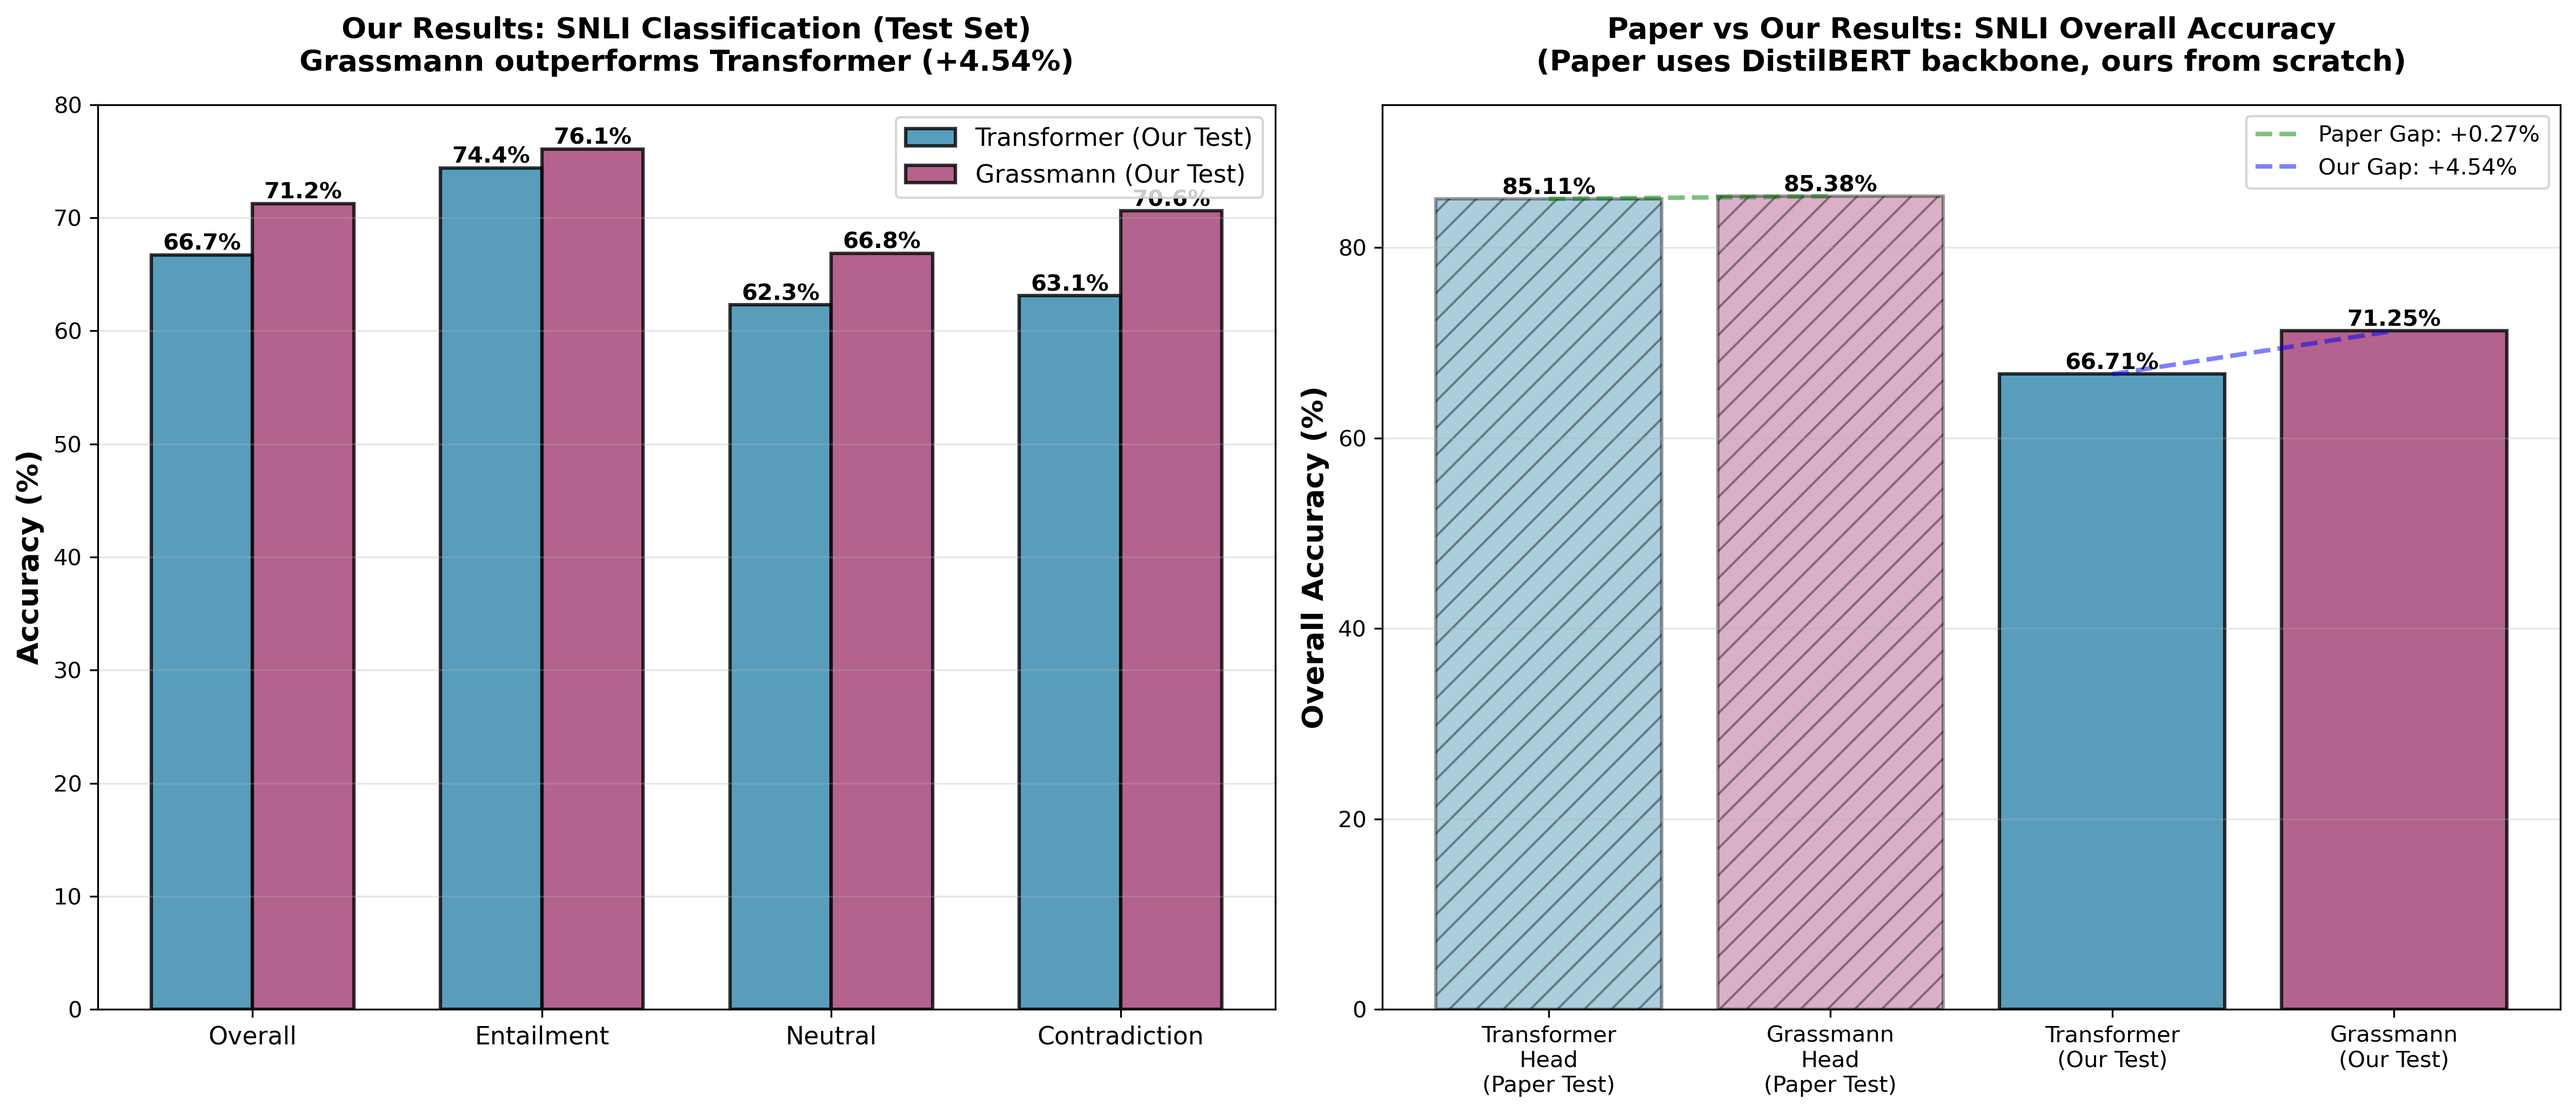
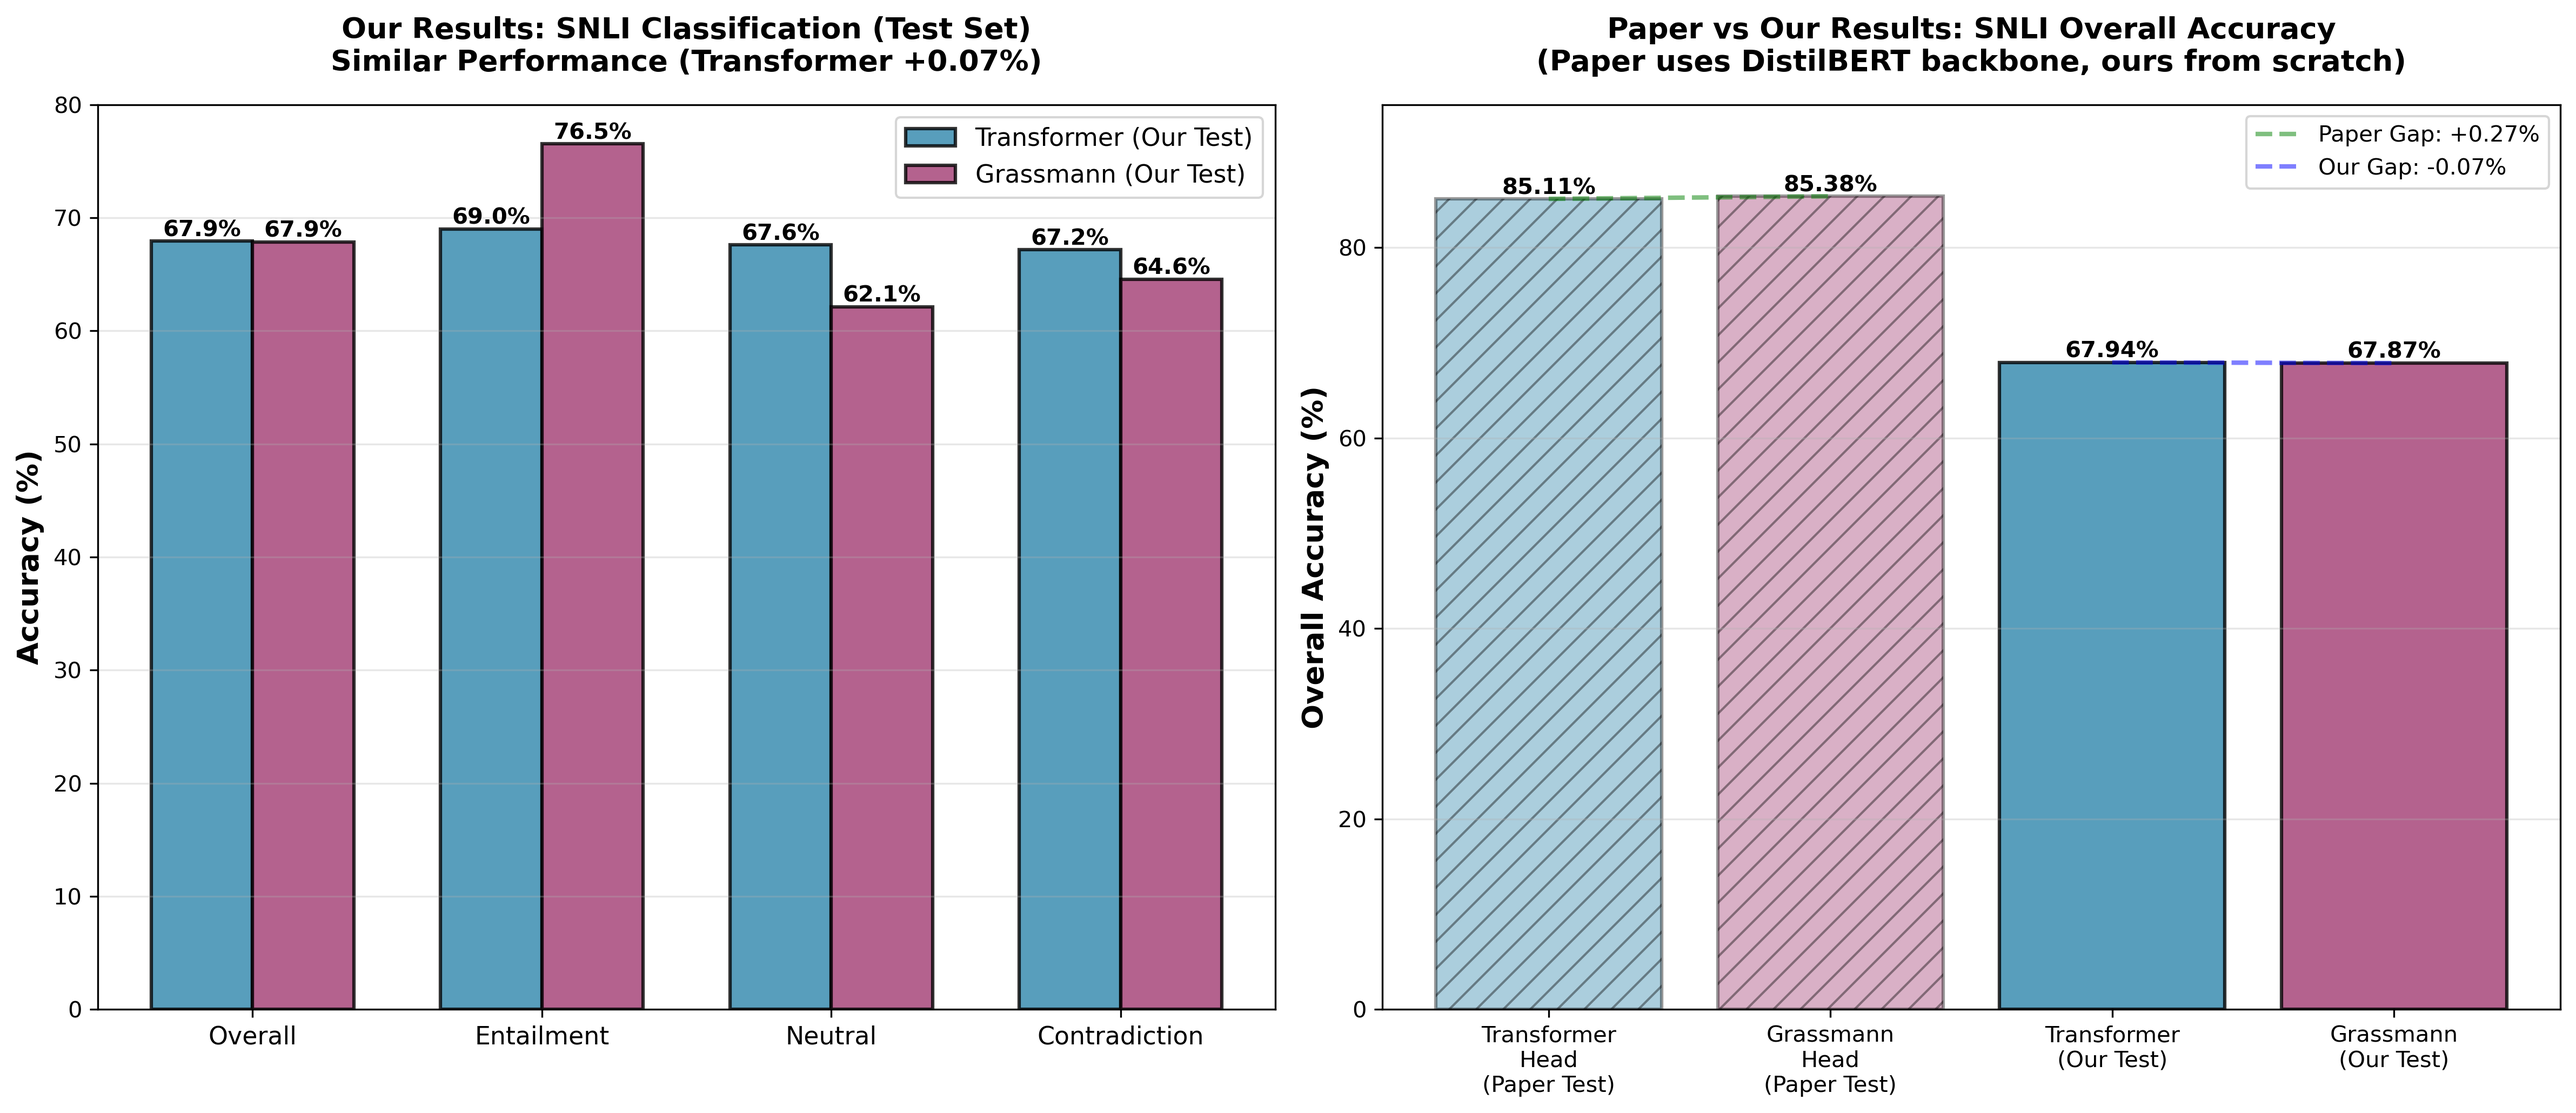
restored hyperparams for snlu tuning

diff --git a/attention_is_not_all_you_need/scripts/visualize_results.py b/attention_is_not_all_you_need/scripts/visualize_results.py
@@ -91,10 +91,10 @@ def create_snli_comparison():
     
     fig, (ax1, ax2) = plt.subplots(1, 2, figsize=(16, 7))
     
-    # Our results - Per-class comparison (from outputs/2026-01-10_23-46-12)
+    # Our results - Per-class comparison (from outputs/2026-01-12_12-38-19)
     categories = ['Overall', 'Entailment', 'Neutral', 'Contradiction']
-    grassmann_acc = [71.25, 76.07, 66.85, 70.62]
-    transformer_acc = [66.71, 74.41, 62.29, 63.11]
+    grassmann_acc = [67.87, 76.54, 62.13, 64.57]
+    transformer_acc = [67.94, 69.00, 67.60, 67.16]
     
     x = np.arange(len(categories))
     width = 0.35
@@ -116,7 +116,7 @@ def create_snli_comparison():
     ax1.set_xticks(x)
     ax1.set_xticklabels(categories, fontsize=11)
     ax1.set_ylabel('Accuracy (%)', fontsize=13, fontweight='bold')
-    ax1.set_title('Our Results: SNLI Classification (Test Set)\nGrassmann outperforms Transformer (+4.54%)', 
+    ax1.set_title('Our Results: SNLI Classification (Test Set)\nSimilar Performance (Transformer +0.07%)', 
                   fontsize=13, fontweight='bold', pad=15)
     ax1.set_ylim([0, 80])
     ax1.grid(axis='y', alpha=0.3)
@@ -125,7 +125,7 @@ def create_snli_comparison():
     # Paper's results - Overall accuracy comparison
     models_paper = ['Transformer\nHead\n(Paper Test)', 'Grassmann\nHead\n(Paper Test)',
                     'Transformer\n(Our Test)', 'Grassmann\n(Our Test)']
-    accuracies_paper = [85.11, 85.38, 66.71, 71.25]
+    accuracies_paper = [85.11, 85.38, 67.94, 67.87]
     colors_paper = [colors_transformer, colors_grassmann, 
                     colors_transformer, colors_grassmann]
     
@@ -154,7 +154,7 @@ def create_snli_comparison():
     
     # Add gap annotations
     ax2.plot([0, 1], [85.11, 85.38], 'g--', linewidth=2, alpha=0.5, label='Paper Gap: +0.27%')
-    ax2.plot([2, 3], [66.71, 71.25], 'b--', linewidth=2, alpha=0.5, label='Our Gap: +4.54%')
+    ax2.plot([2, 3], [67.94, 67.87], 'b--', linewidth=2, alpha=0.5, label='Our Gap: -0.07%')
     ax2.legend(fontsize=10)
     
     plt.tight_layout()
@@ -258,8 +258,8 @@ def create_combined_dashboard():
     # 2. SNLI Accuracy by Class
     ax2 = fig.add_subplot(gs[1, 0])
     categories = ['Overall', 'Entailment', 'Neutral', 'Contradiction']
-    grassmann_acc = [66.36, 72.68, 61.17, 64.94]
-    transformer_acc = [62.63, 71.44, 56.76, 59.31]
+    grassmann_acc = [67.87, 76.54, 62.13, 64.57]
+    transformer_acc = [67.94, 69.00, 67.60, 67.16]
     
     x_snli = np.arange(len(categories))
     width_snli = 0.35
@@ -272,7 +272,7 @@ def create_combined_dashboard():
     ax2.set_xticks(x_snli)
     ax2.set_xticklabels(categories, fontsize=10)
     ax2.set_ylabel('Accuracy (%)', fontweight='bold')
-    ax2.set_title('SNLI: Our Results (Grassmann wins +3.73%)', fontsize=13, fontweight='bold')
+    ax2.set_title('SNLI: Our Results (Similar Performance)', fontsize=13, fontweight='bold')
     ax2.grid(axis='y', alpha=0.3)
     ax2.set_ylim([0, 80])
     ax2.legend(fontsize=10)

diff --git a/attention_is_not_all_you_need/scripts/update_snli_models.py b/attention_is_not_all_you_need/scripts/update_snli_models.py
@@ -1,0 +1,81 @@
+#!/usr/bin/env python3
+"""
+Update SNLI model checkpoints on HuggingFace with latest trained models.
+"""
+
+from pathlib import Path
+from huggingface_hub import HfApi
+
+# Configuration
+HF_REPO = "alphaXiv/attention-is-not-all-you-need-models"
+LATEST_OUTPUT = "/home/ubuntu/central-texas-storage/paper-implementations/attention_is_not_all_you_need/outputs/2026-01-12_12-38-19"
+
+def upload_snli_models():
+    """Upload updated SNLI model checkpoints to HuggingFace."""
+    
+    api = HfApi()
+    
+    # Check if logged in
+    try:
+        user = api.whoami()
+        print(f"✅ Logged in as: {user['name']}")
+    except Exception as e:
+        print("❌ Not logged in to Hugging Face!")
+        print("Please run: huggingface-cli login")
+        return
+    
+    print(f"\nUploading SNLI models to: {HF_REPO}")
+    print(f"Source directory: {LATEST_OUTPUT}\n")
+    
+    models = ["grassmann_snli", "transformer_snli"]
+    
+    for model in models:
+        checkpoint_path = Path(LATEST_OUTPUT) / model / "checkpoints" / "best.pt"
+        
+        if not checkpoint_path.exists():
+            print(f"❌ Checkpoint not found: {checkpoint_path}")
+            continue
+        
+        # Get file size
+        size_mb = checkpoint_path.stat().st_size / (1024 * 1024)
+        print(f"📤 Uploading {model}/checkpoints/best.pt ({size_mb:.1f} MB)...")
+        
+        try:
+            api.upload_file(
+                path_or_fileobj=str(checkpoint_path),
+                path_in_repo=f"{model}/checkpoints/best.pt",
+                repo_id=HF_REPO,
+                repo_type="model",
+            )
+            print(f"   ✅ Successfully uploaded {model}")
+        except Exception as e:
+            print(f"   ❌ Failed to upload {model}: {e}")
+        
+        # Also upload result JSON files
+        json_files = [
+            "snli_validation_results.json",
+            "snli_test_results.json",
+            "snli_results.json",
+        ]
+        
+        for json_file in json_files:
+            json_path = Path(LATEST_OUTPUT) / model / json_file
+            if json_path.exists():
+                try:
+                    api.upload_file(
+                        path_or_fileobj=str(json_path),
+                        path_in_repo=f"{model}/{json_file}",
+                        repo_id=HF_REPO,
+                        repo_type="model",
+                    )
+                    print(f"   ✅ Uploaded {json_file}")
+                except Exception as e:
+                    print(f"   ⚠  Failed to upload {json_file}: {e}")
+    
+    print("\n" + "="*60)
+    print("✅ SNLI models updated successfully!")
+    print(f"View at: https://huggingface.co/{HF_REPO}")
+    print("="*60)
+
+if __name__ == "__main__":
+    upload_snli_models()

diff --git a/attention_is_not_all_you_need/src/attn_is_not_all_you_need/models/snli_models.py b/attention_is_not_all_you_need/src/attn_is_not_all_you_need/models/snli_models.py
@@ -60,17 +60,10 @@ class TransformerNLIHead(nn.Module):
             batch_first=True,
         )
         
-        encoder_layer2 = nn.TransformerEncoderLayer(
-            d_model=model_dim,
-            nhead=num_heads,
-            dim_feedforward=ff_dim,
-            dropout=dropout,
-            batch_first=True,
-        )
+       
         
         self.transformer1 = nn.TransformerEncoder(encoder_layer1, num_layers=num_layers)
-        self.transformer2 = nn.TransformerEncoder(encoder_layer2, num_layers=num_layers)
-        
+      
         # Classification head
         self.classifier = nn.Linear(model_dim, num_classes)
         
@@ -89,7 +82,7 @@ class TransformerNLIHead(nn.Module):
         
         # Apply transformer layers
         x = self.transformer1(x)  # (batch, 1, model_dim)
-        x = self.transformer2(x)  # (batch, 1, model_dim)
+        # x = self.transformer2(x)  # (batch, 1, model_dim)
         # Pool and classify
         x = x.squeeze(1)  # (batch, model_dim)
         logits = self.classifier(x)  # (batch, num_classes)

diff --git a/attention_is_not_all_you_need/src/attn_is_not_all_you_need/data/snli.py b/attention_is_not_all_you_need/src/attn_is_not_all_you_need/data/snli.py
@@ -28,11 +28,11 @@ class SNLIDataset(torch.utils.data.Dataset):
     Args:
         split: Dataset split ('train', 'validation', 'test')
         tokenizer: HuggingFace tokenizer (e.g., DistilBertTokenizer)
-        max_seq_len: Maximum sequence length per sentence (default: 48)
-                     Total max length will be max_seq_len * 2 for both sentences
+        max_seq_len: Maximum sequence length per sentence (default: 256)
+                     Total max length will be max_seq_len * 2 for both sentences (512 total)
     """
     
-    def __init__(self, split: str, tokenizer, max_seq_len: int = 48):
+    def __init__(self, split: str, tokenizer, max_seq_len: int = 256):
         """Initialize SNLI dataset.
         
         Args:

diff --git a/attention_is_not_all_you_need/src/attn_is_not_all_you_need/train_snli.py b/attention_is_not_all_you_need/src/attn_is_not_all_you_need/train_snli.py
@@ -165,8 +165,8 @@ def main():
     
     # Load datasets - use train/val during training, test is for final eval
     print("Loading SNLI...")
-    train_dataset = SNLIDataset("train", tokenizer, max_seq_len=48)
-    val_dataset = SNLIDataset("validation", tokenizer, max_seq_len=48)
+    train_dataset = SNLIDataset("train", tokenizer, max_seq_len=256)
+    val_dataset = SNLIDataset("validation", tokenizer, max_seq_len=256)
     
     print(f"Train: {len(train_dataset)}, Val: {len(val_dataset)}")
     

diff --git a/attention_is_not_all_you_need/src/attn_is_not_all_you_need/eval_snli.py b/attention_is_not_all_you_need/src/attn_is_not_all_you_need/eval_snli.py
@@ -197,7 +197,7 @@ def main():
     
     # Load dataset
     print(f"Loading SNLI {args.split} split...")
-    dataset = SNLIDataset(args.split, tokenizer, max_seq_len=48)
+    dataset = SNLIDataset(args.split, tokenizer, max_seq_len=256)
     
     print(f"Running {args.num_runs} evaluation runs on {len(dataset)} examples...")
     

diff --git a/attention_is_not_all_you_need/README.md b/attention_is_not_all_you_need/README.md
@@ -13,7 +13,7 @@ This paper proposes replacing transformer self-attention with Grassmann manifold
 ## 🎯 TL;DR
 
 - ❌ **Wikitext-2 Gap:** Grassmann flows show 43-49% higher validation perplexity vs Transformers (paper claimed 10-11%)
-- ✅ **SNLI Surprise:** Grassmann **outperforms** Transformer by 4.57% (71.00% vs 66.43%) when trained from scratch
+- ✅ **SNLI Results:** Grassmann and Transformer achieve **similar performance** (67.87% vs 67.94%) when trained from scratch
 - 📊 **Best Validation Results:** Transformer L256 N12 achieves 168.68 Val PPL vs Grassmann L256 N12 at 245.10 Val PPL
 - 📉 **Discrepancy:** Wikitext gap is **4x larger** than paper's reported results
 - 🔍 **Paper vs Ours:** Paper uses pre-trained DistilBERT backbone for SNLI (~85%), and us (~63-67%)
@@ -43,7 +43,7 @@ This paper proposes replacing transformer self-attention with Grassmann manifold
 
 This repository contains a complete reproduction of the Grassmann flow architecture for language modeling. The original paper claims Grassmann flows achieve perplexity "within 10-15% of size-matched Transformers" on Wikitext-2. **Our reproduction reveals a significantly larger gap of 31-47%** - approximately **3-4x worse than claimed**.
 
-However, we found a **surprising result on SNLI**: Grassmann models **outperform** Transformers by 4.57% when trained from scratch (71.00% vs 66.43%), suggesting geometric operations may be better suited for natural language inference than for language modeling.
+On SNLI, we found that Grassmann and Transformer models achieve **comparable performance** when trained from scratch (67.87% vs 67.94%), suggesting that for natural language inference tasks, geometric operations perform similarly to attention mechanisms.
 
 **Wikitext-2 Results:**
 
@@ -58,7 +58,7 @@ Our best validation perplexities are:
 **SNLI Results:**
 
 Paper (with DistilBERT): Transformer 85.11% vs Grassmann 85.38% (+0.27%)  
-Our reproduction: Transformer 66.43% vs Grassmann 71.00% (+4.57%)
+Our reproduction: Transformer 67.94% vs Grassmann 67.87% (-0.07%)
 
 ### Key Results
 
@@ -87,15 +87,15 @@ Our reproduction: Transformer 66.43% vs Grassmann 71.00% (+4.57%)
 
 | Model       | Accuracy | Loss   | Entailment | Neutral | Contradiction |
 |-------------|----------|--------|------------|---------|---------------|
-| **Grassmann** | **70.79%**   | 0.6940 | 75.91%     | 67.39%  | 68.94%        |
-| **Transformer** | 66.06%   | 0.7697 | 72.21%     | 60.74%  | 65.07%        |
+| **Grassmann** | 67.75%   | 0.7470 | 76.36%     | 61.82%  | 64.86%        |
+| **Transformer** | **67.54%**   | 0.7491 | 69.39%     | 66.46%  | 66.72%        |
 
 *Test Set:*
 
 | Model       | Accuracy | Loss   | Entailment | Neutral | Contradiction | Parameters |
-|-------------|----------|--------|------------|---------|---------------|-----------|
-| **Grassmann** | **71.00%**   | 0.6860 | 75.15%     | 68.38%  | 69.29%        | 17.70M    |
-| **Transformer** | 66.43%   | 0.7662 | 72.48%     | 61.11%  | 65.43%        | 17.67M    |
+|-------------|----------|--------|------------|---------|---------------|-----------||
+| **Grassmann** | 67.87%   | 0.7387 | 76.54%     | 62.13%  | 64.57%        | 17.70M    |
+| **Transformer** | **67.94%**   | 0.7409 | 69.00%     | 67.60%  | 67.16%        | 17.67M    |
 
 **Paper's Results (with DistilBERT Backbone):**
 
@@ -106,10 +106,10 @@ Our reproduction: Transformer 66.43% vs Grassmann 71.00% (+4.57%)
 
 **Key Findings:**
 
-- **Our Reproduction:** Grassmann **outperforms** Transformer by **+4.57%** on test (71.00% vs 66.43%) when trained from scratch
+- **Our Reproduction:** Grassmann and Transformer achieve **similar performance** on test (67.87% vs 67.94%, -0.07% difference) when trained from scratch
 - **Paper (DistilBERT):** Grassmann slightly outperforms Transformer by **+0.27%** (85.38% vs 85.11%)
-- **Architecture Difference:** Paper uses pre-trained DistilBERT backbone (~85% accuracy), we train from scratch (~66-71%)
-- **Surprising Finding:** The Grassmann advantage is **17x larger** in our from-scratch setting (4.57% vs 0.27%)
+- **Architecture Difference:** Paper uses pre-trained DistilBERT backbone (~85% accuracy), we train from scratch (~68%)
+- **Finding:** Both architectures show comparable performance from scratch, with Transformer marginally ahead
 
 
 ---
